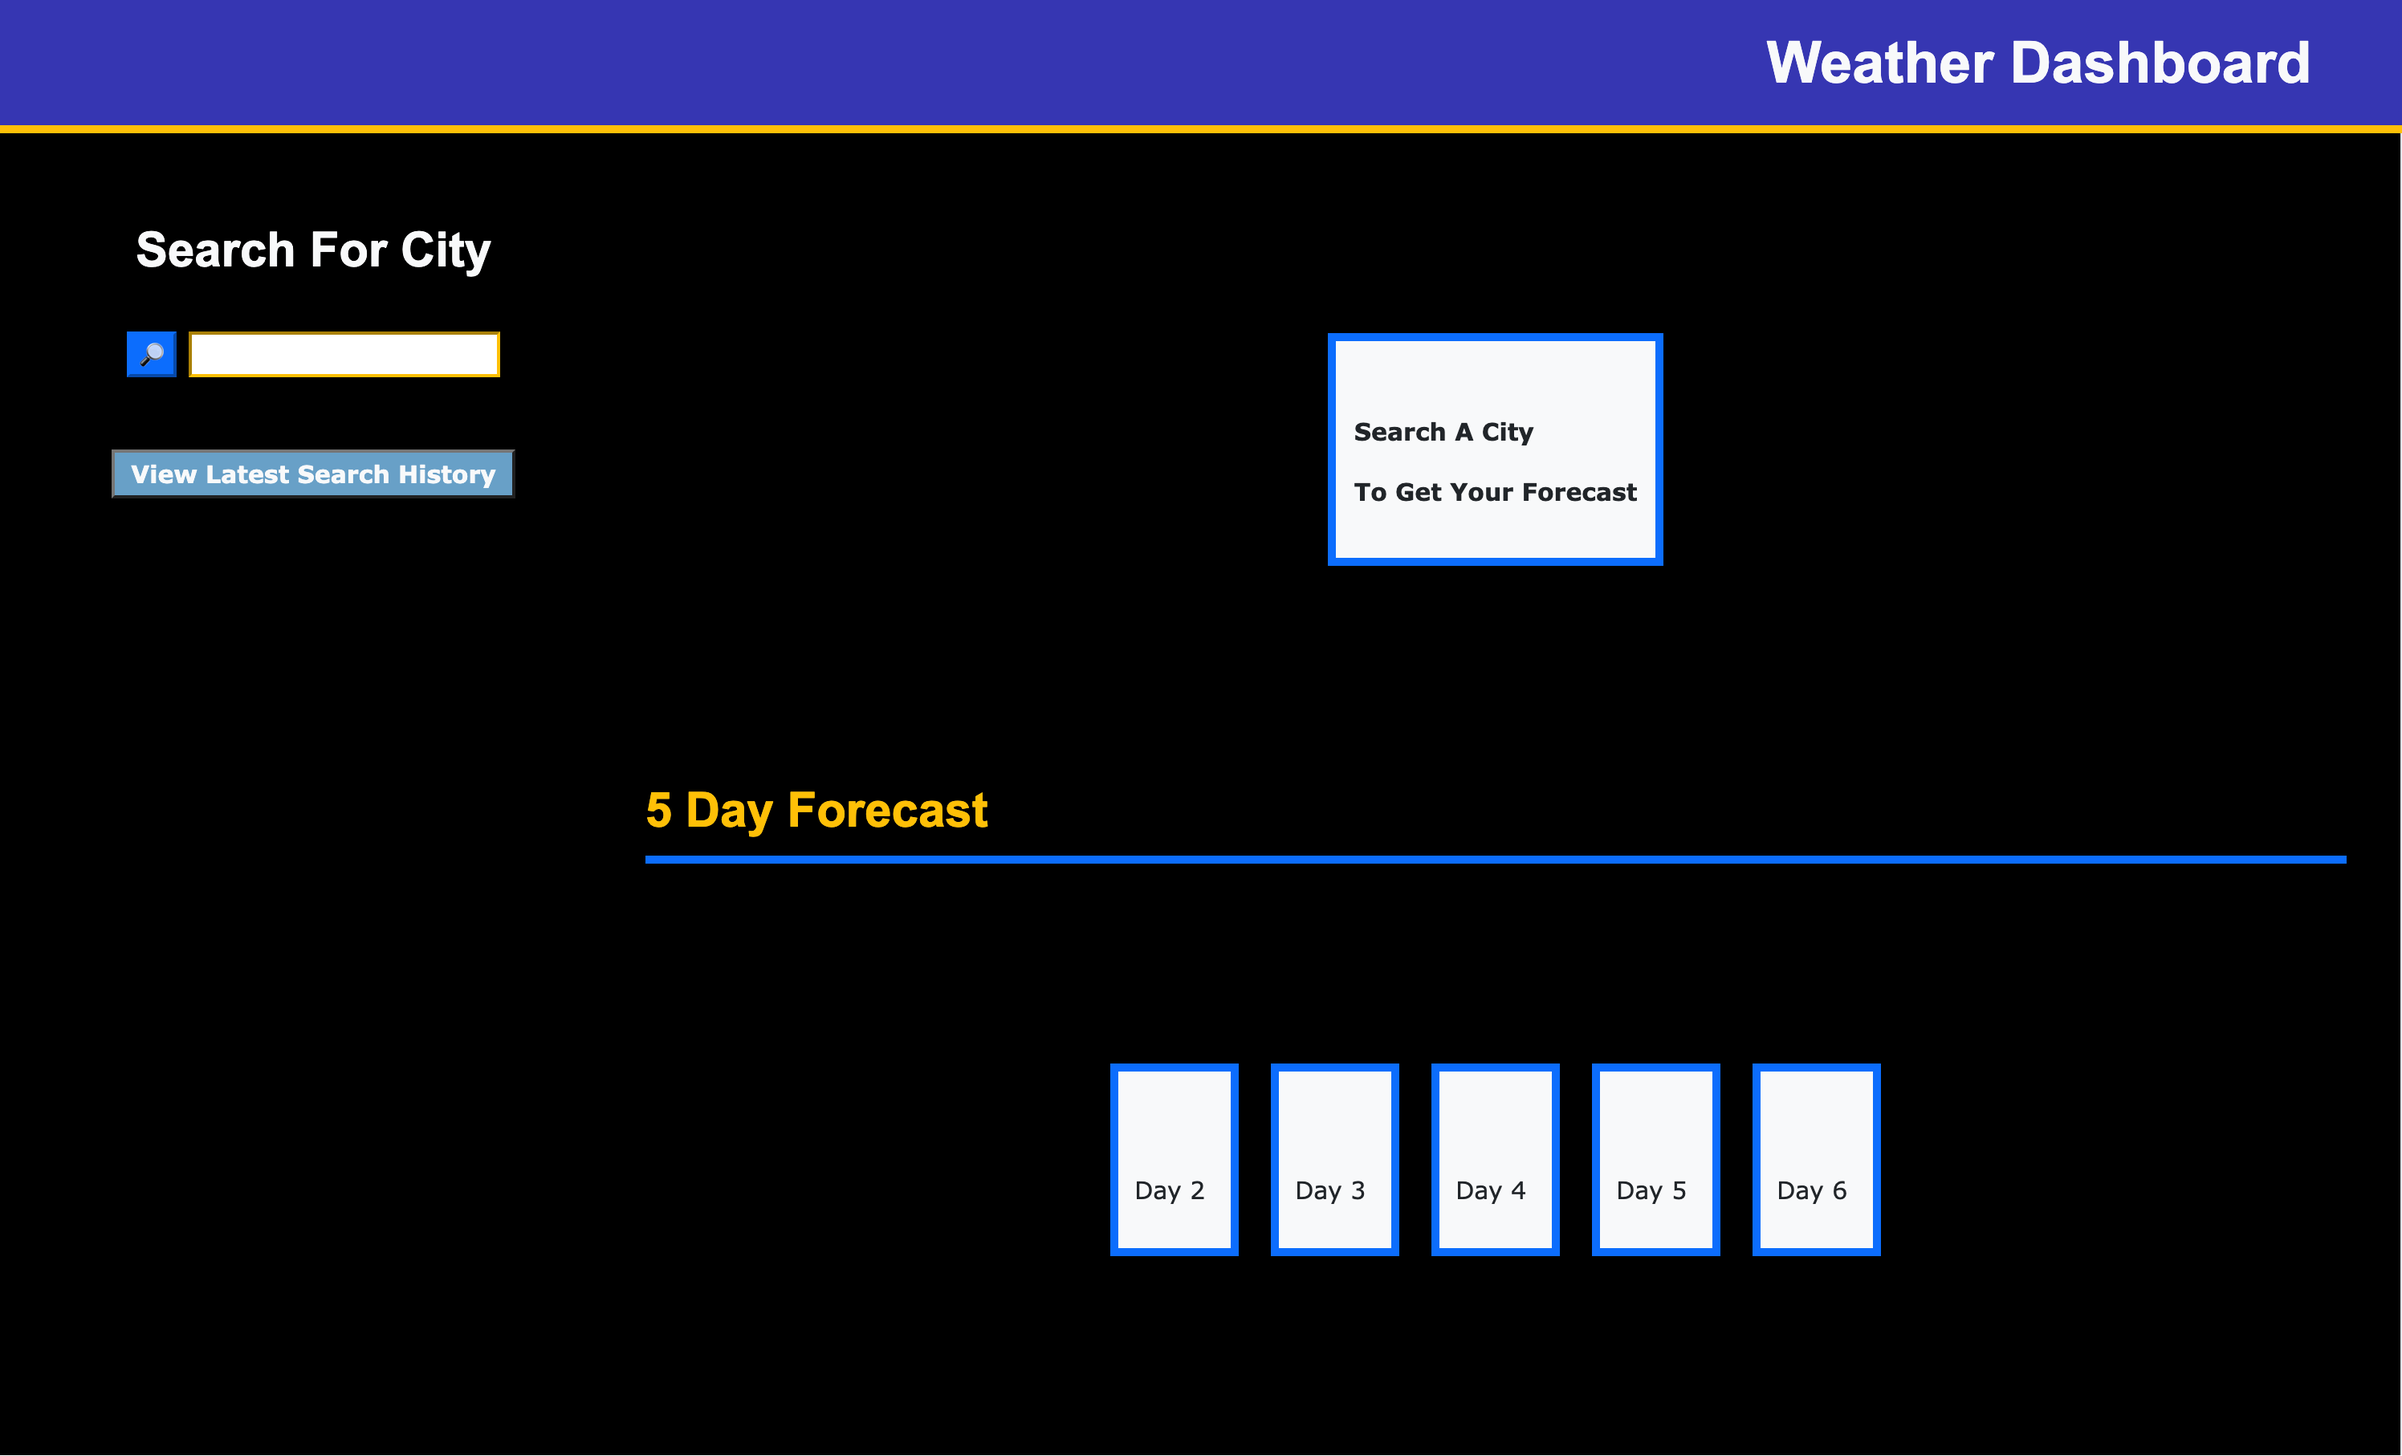
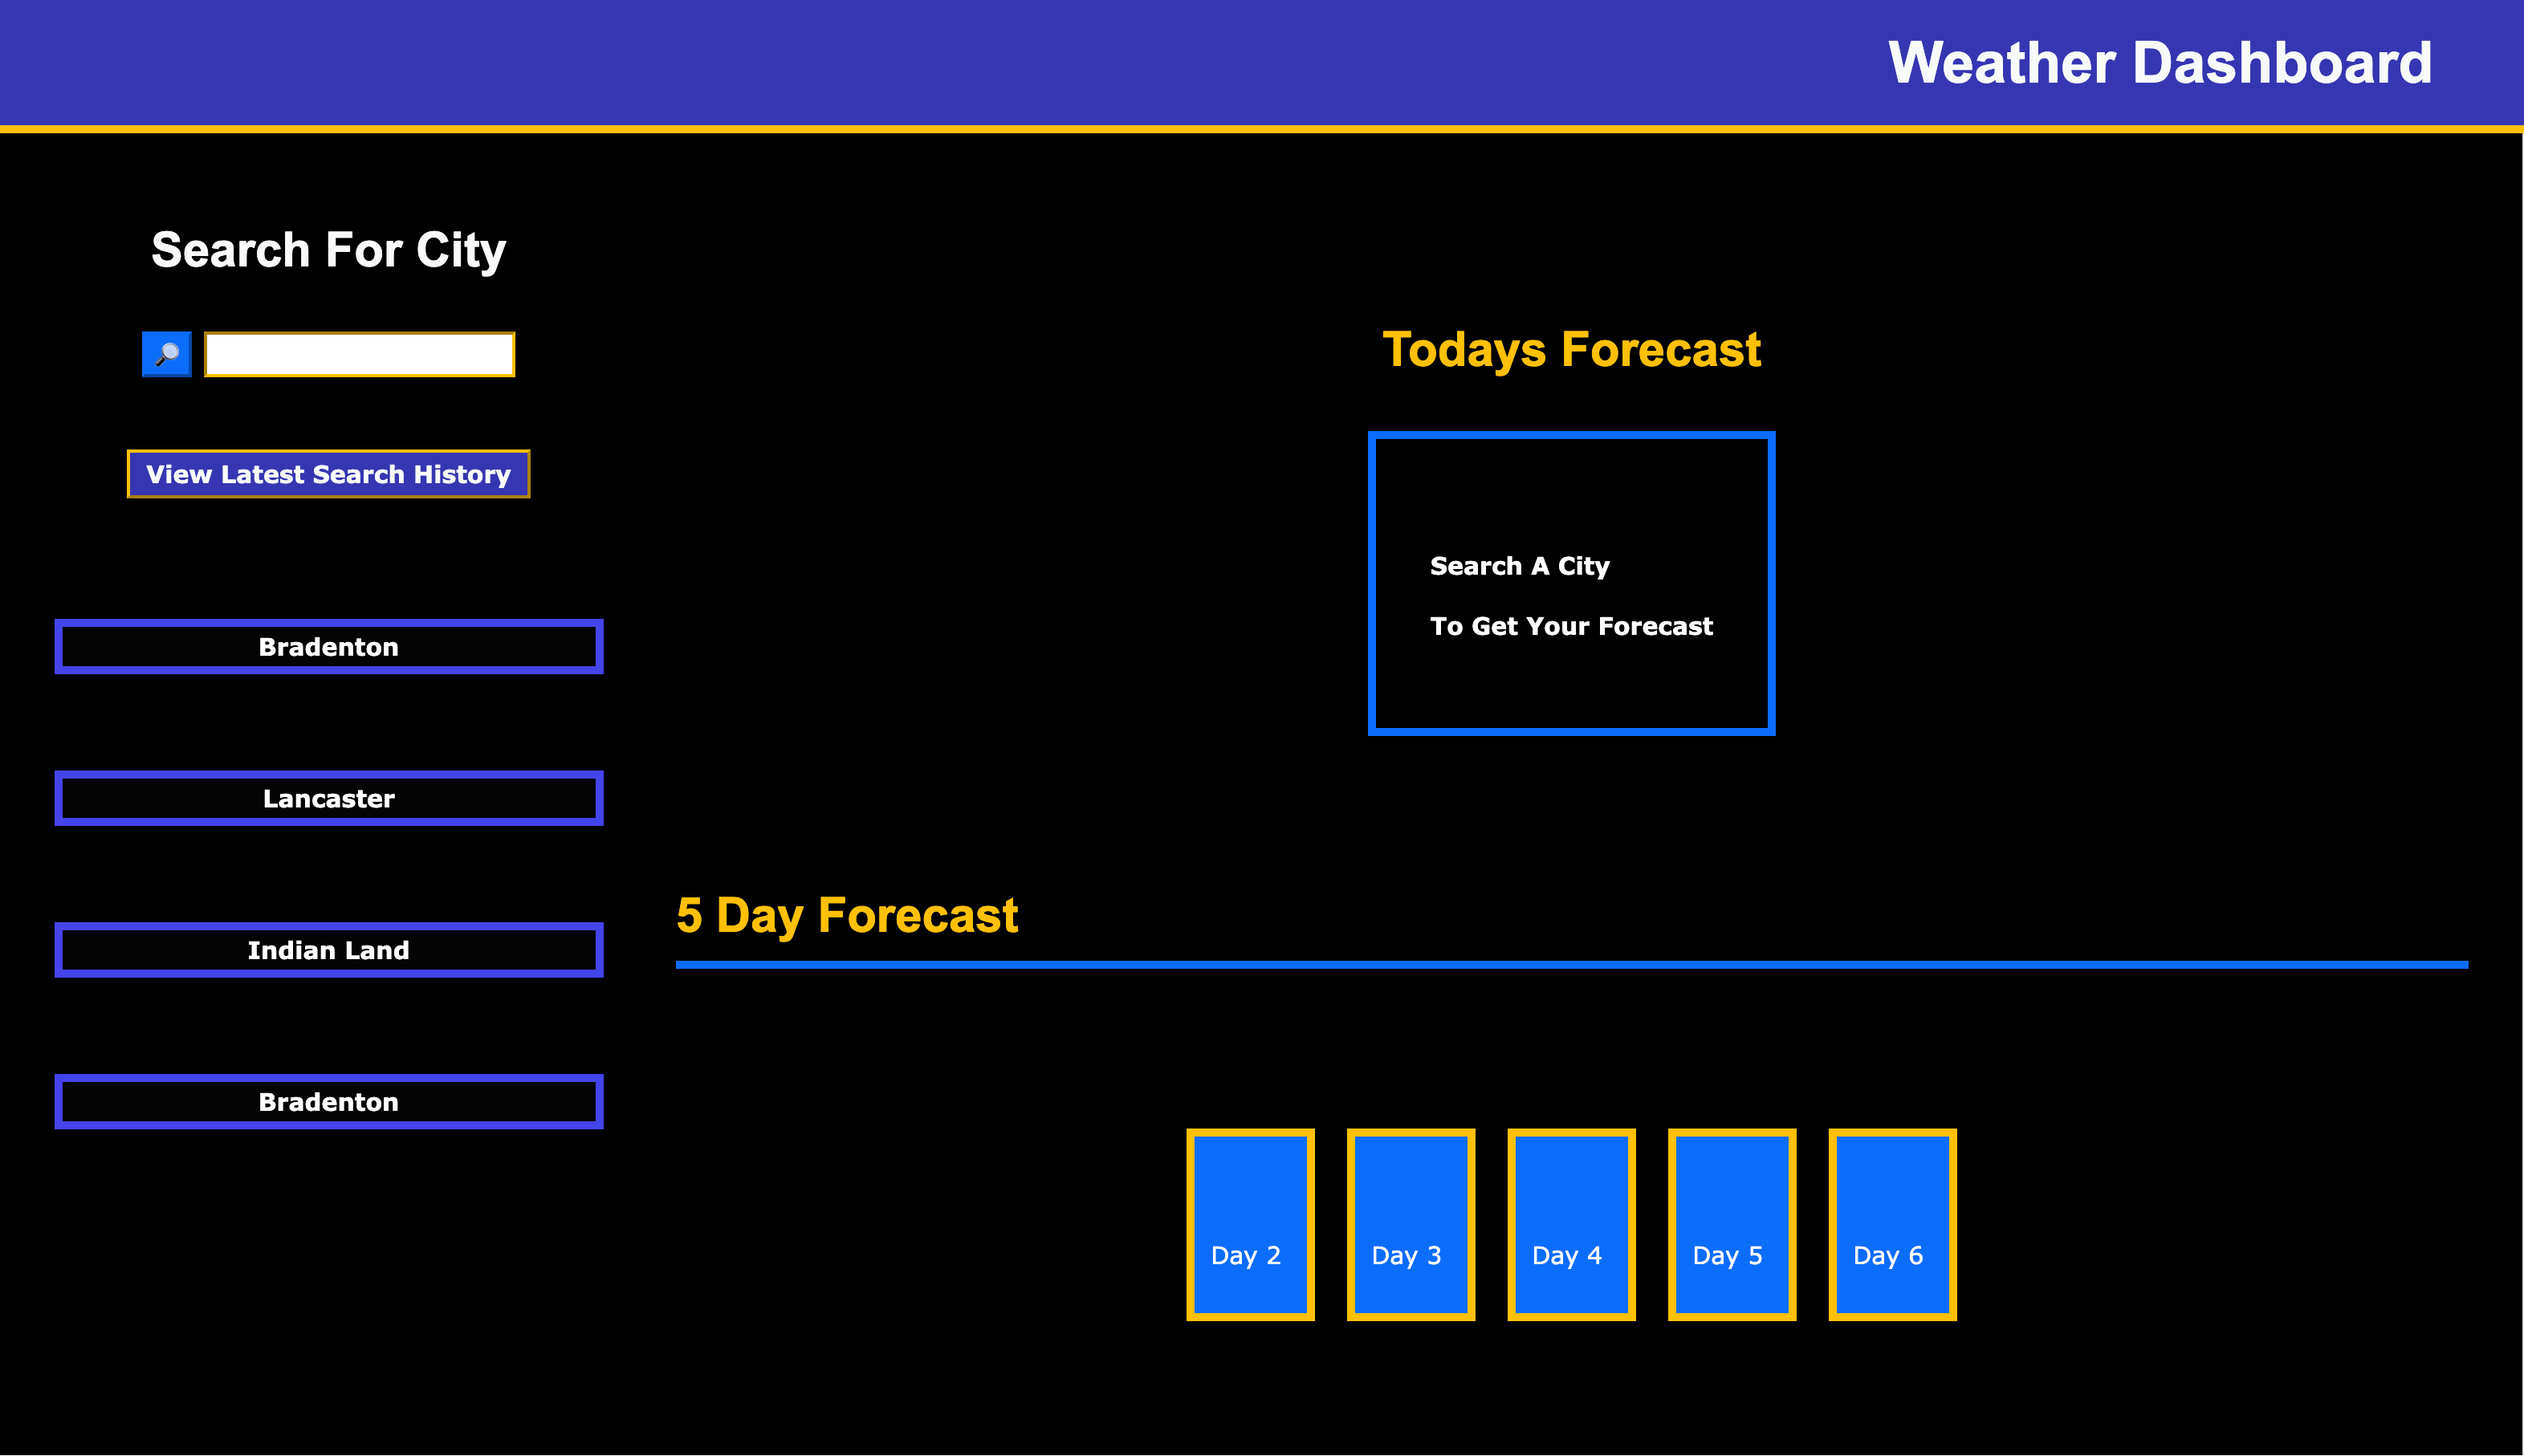
cleaninng up html

diff --git a/index.html b/index.html
@@ -25,44 +25,44 @@
 
 <body class="bg-black">
 
-            <!-- needs div for container -->
-        <div class="border-bottom border-5 border-warning">
-            <header id="header" class="d-flex container-fluid justify-content-end">
+
+    <div class="border-bottom border-5 border-warning">
+        <header id="header" class="d-flex container-fluid justify-content-end">
             
-                <h1 class="text-light me-5 py-2">Weather Dashboard</h1>
+            <h1 class="text-light me-5 py-2">Weather Dashboard</h1>
                 
-            </header>
-        </div>     
+        </header>
+    </div>     
 
     <div id="nav-div" class="container-fluid d-flex border-end">
       <div class="container-fluid col-sm-3 col-md-3 col-lg-3">
-        
         <nav class="vh-100">
             <div class="d-flex justify-content-center flex-column "> 
+                <div class="d-flex justify-content-center mt-5">
+                    <h2 class="text-light">Search For City</h2>
+                </div>
 
-             <div class="d-flex justify-content-center mt-5">
-                 <h2 class="text-light">Search For City</h2>
-             </div>
-
-             <div class="d-flex flex-row justify-content-center">
-                 <form id="search-bar" class="">
-                     <label for="City"></label>
-                     <div class="d-flex justify-content-center">
-                        <button id="search-button" class=" me-2 btn-primary">&#x1F50E</button>
-                        <input type="text" id="city-input" class="border-warning">
-                    </div>
-                 </form>
-             </div> 
+                <div class="d-flex flex-row justify-content-center">
+                    <form id="search-bar" class="">
+                        <label for="City"></label>
+                        <div class="d-flex justify-content-center">
+                            <button id="search-button" class=" me-2 btn-primary">&#x1F50E</button>
+                            <input type="text" id="city-input" class="border-warning">
+                        </div>
+                    </form>
+                </div> 
              
-             <div class="d-flex justify-content-center my-5">
-                 <button id="history-refresh" onclick="window.location.reload()" class="text-light">View Latest Search History</button>
-             </div>
+                <div class="d-flex justify-content-center my-5">
+                    <button id="history-refresh" onclick="window.location.reload()" 
+                    class="text-light border-warning">View Latest Search History</button>
+                </div>
 
              <div id="search-history" class=" container-fluid d-flex flex-column">
              
              </div>
              <!-- will append button elements as children here -->
-           </div>  <!-- button elements will populate based off city search history -->
+             <!-- button elements will populate based off city search history -->
+           </div>  
         </nav>
      </div>
 
@@ -70,7 +70,7 @@
                     <!-- Section for search bar and search history buttons -->
                     
             <div class="">
-                <main class="">
+                <main>
 
             <div id="h2-forecast" class="container d-flex justify-content-center my-4">
                 <caption>
@@ -109,7 +109,7 @@
                 <!-- Section for 5-day forcast -->
                     <section id="5day-forecast" class="d-flex text-white justify-content-center align-content-center mt-3 five-day-container">
                         <!-- These will store data for each future day in the 5-day forecast -->
-                            <div id="day-2" class="five-cast future-forecast border border-5 border-primary bg-primary">
+                            <div id="day-2" class="five-cast future-forecast border border-5 border-warning bg-primary">
                                 
 
                                 <div class="">
@@ -123,7 +123,7 @@
                                 </div>
                             </div>
 
-                            <div id="day-3" class="five-cast future-forecast border border-5 border-primary bg-primary">
+                            <div id="day-3" class="five-cast future-forecast border border-5 border-warning bg-primary">
 
                                 <div class="">
                                     <p id="day3-city"></p>
@@ -136,7 +136,7 @@
                                 </div>
                             </div>
 
-                            <div id="day-4" class="five-cast d-flex future-forecast border border-5 border-primary bg-primary">
+                            <div id="day-4" class="five-cast d-flex future-forecast border border-5 border-warning bg-primary">
                                 
 
                                 <div class="">
@@ -150,7 +150,7 @@
                                 </div>
                             </div>
                                 
-                            <div id="day-5" class="five-cast d-flex future-forecast border border-5 border-primary bg-primary">
+                            <div id="day-5" class="five-cast d-flex future-forecast border border-5 border-warning bg-primary">
                                 
 
                                 <div class="">
@@ -164,7 +164,7 @@
                                 </div>
                             </div>
 
-                            <div id="day-6" class="five-cast future-forecast border border-5 border-primary bg-primary">
+                            <div id="day-6" class="five-cast future-forecast border border-5 border-warning bg-primary">
                                
 
                                 <div class="">

diff --git a/assets/css/style.css b/assets/css/style.css
@@ -35,7 +35,7 @@ nav h2 {
 } */
 
 #history-refresh {
-    background-color: rgb(104, 160, 200);
+    background-color: rgb(54, 54, 178);
     padding: 2px 10px;
     font-weight: bold;
 }

diff --git a/README.md b/README.md
@@ -14,11 +14,11 @@
 
  - Image Of App With Forecasts
 
-![completed product website screenshot](./assets/imgs/Work-Day-Scheduler-events.png)
+![completed product website screenshot](./assets/imgs/WeatherAppActive.png)
 
 ## Usage
 
-Here is the link to the live quiz website: 
+Here is the link to the live weather app: 
 https://daymenpasick.github.io/student-workday-scheduler/
 
 
